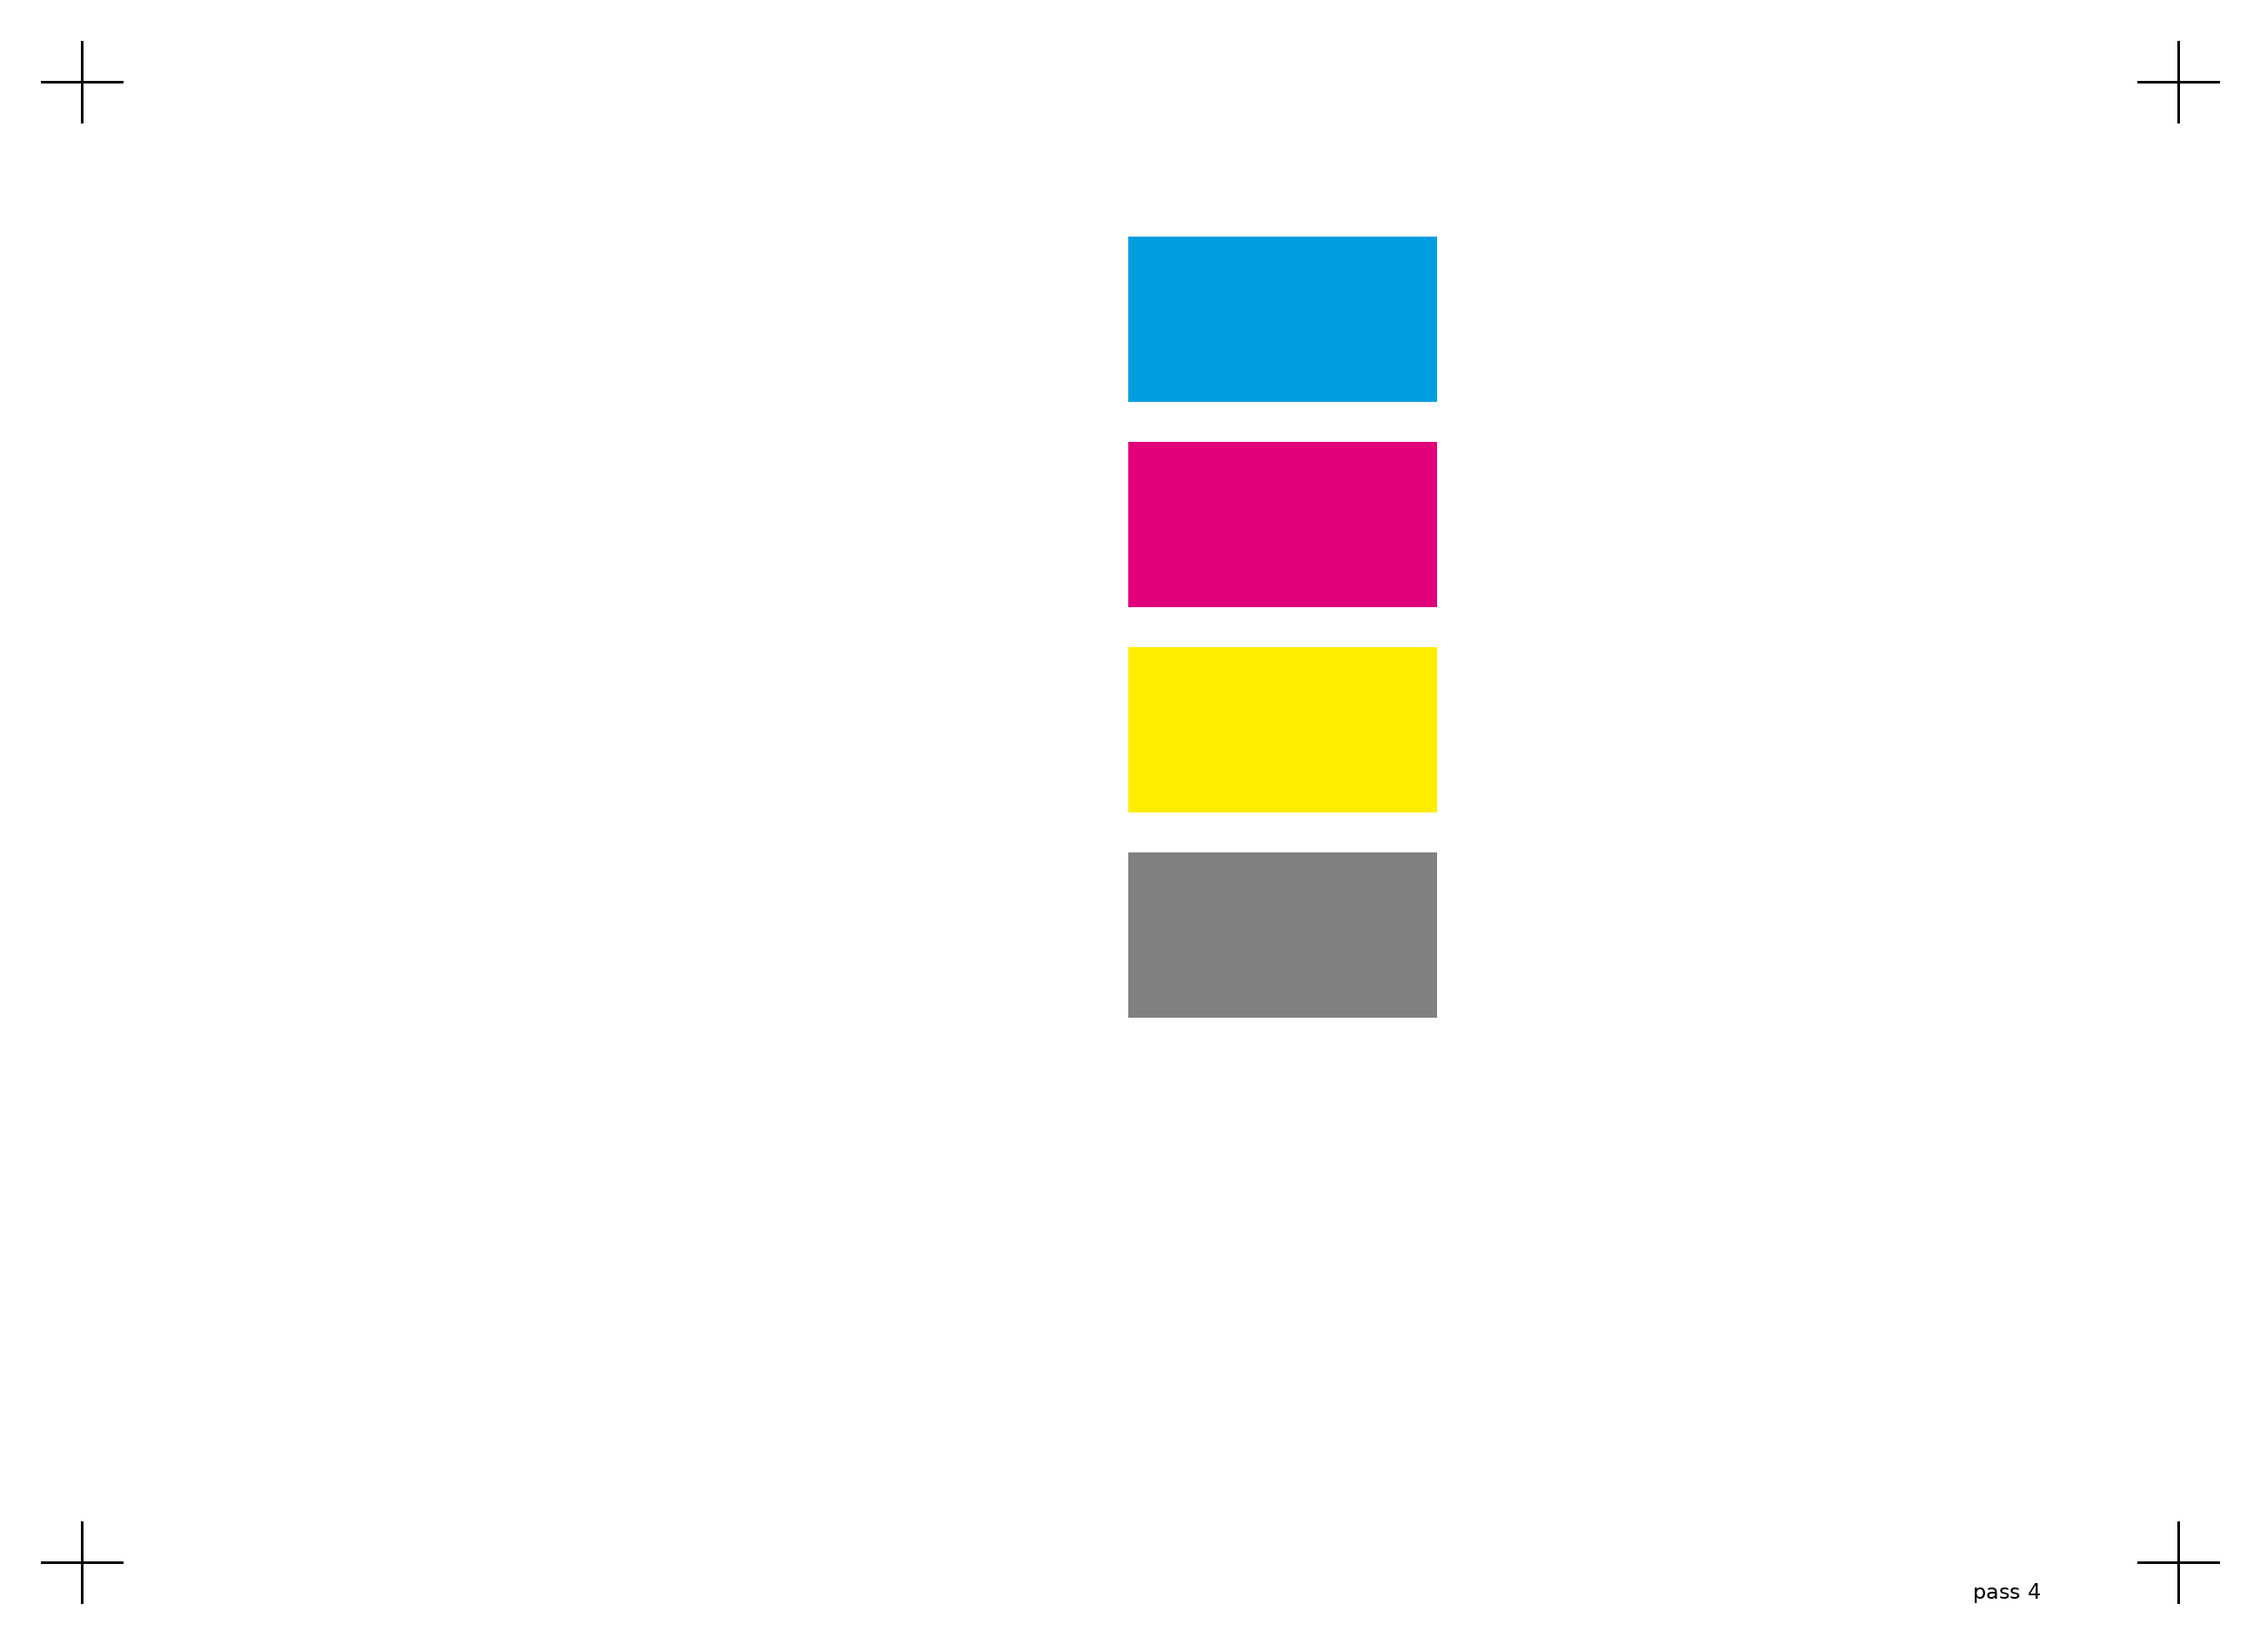
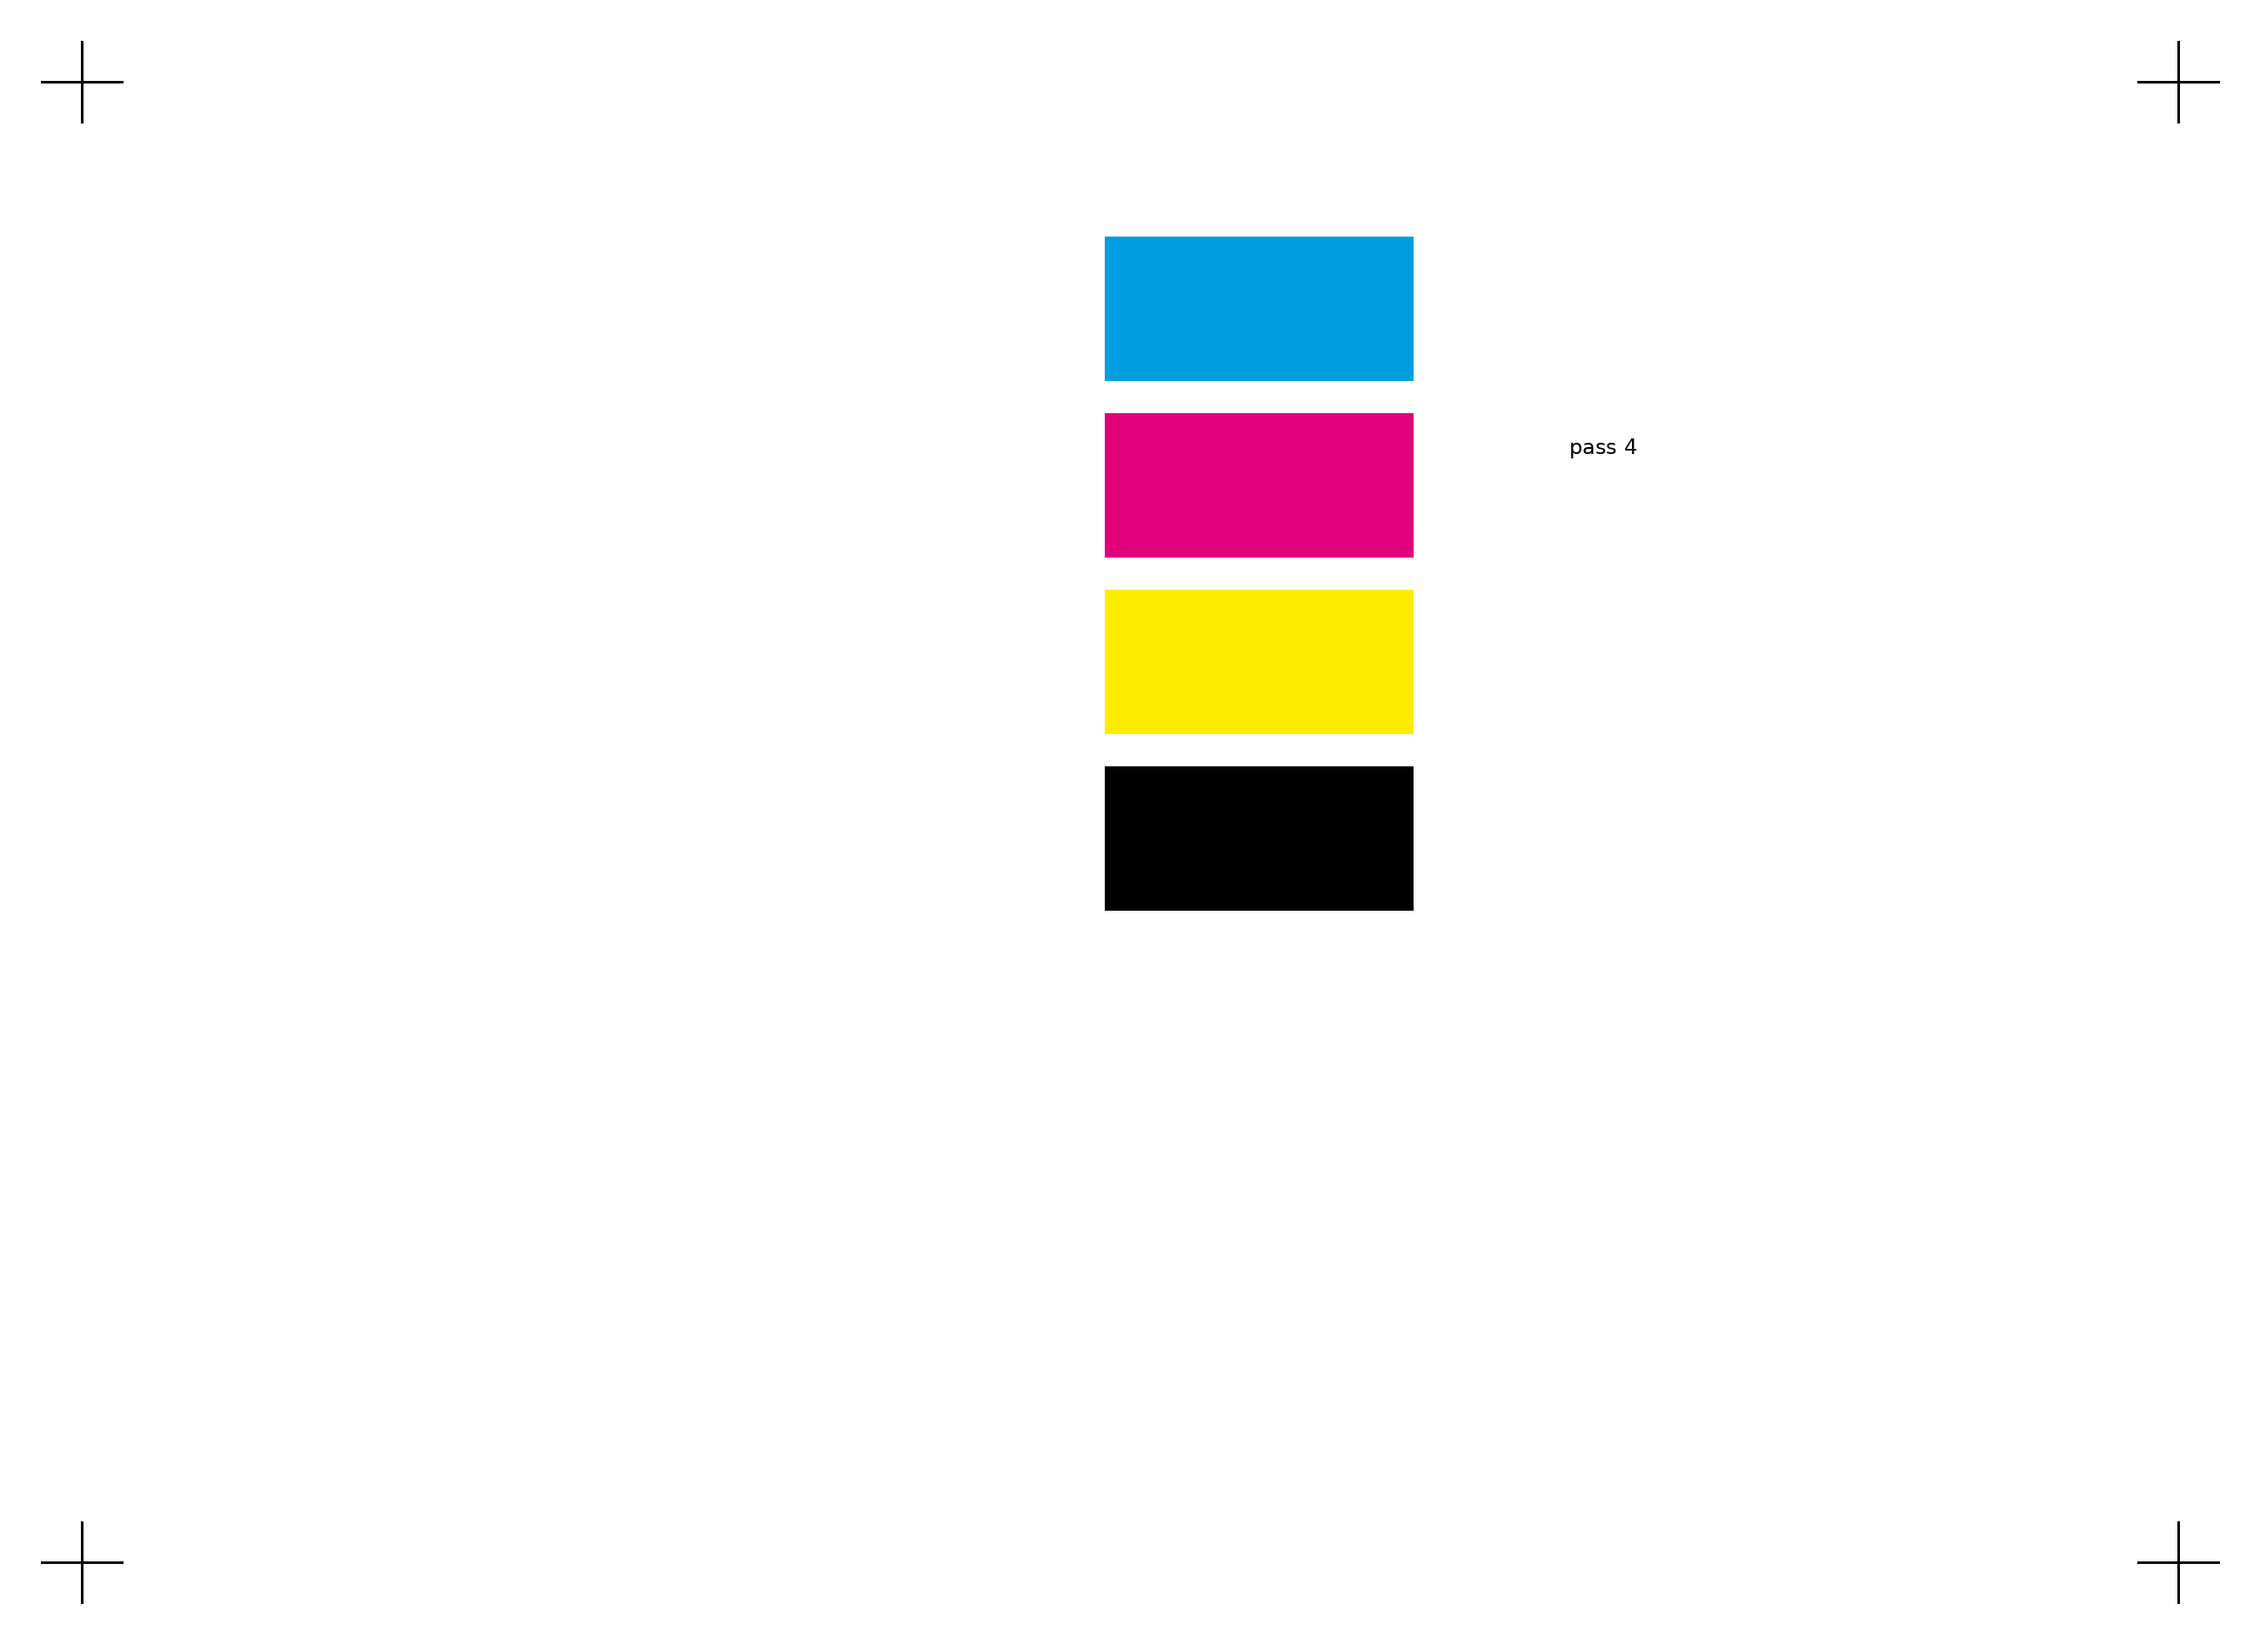
Rework the glaze test around what the black tile taught
Three changes, each from a measurement rather than a preference.

Pure black replaces mid grey in the depth series. One pass read as dark grey on
glass, so whether a second or third reaches a real black is a question worth a
row — and it has to be exactly zero, since near-black is a weaker ink mix here.

The fourth pair becomes M over C, so all four pairs are now CMY combinations.
Glazing is built from those three; grey was taking a slot that a real pair
could use.

Registration becomes a vernier instead of four crosses stacked on each other.
Crosses printed four times only get thicker — they cannot say by how much
anything moved. Pass 1 lays the upper bars, pass 2 the lower ones at offsets
from -0.3 to +0.3mm, and whichever pair lines up is the drift. The bars are
0.3mm wide because 0.1mm hairlines thicken under overspray, which is the very
error being measured.

Changed region(s): [[0.4677, 0.1249, 0.6547, 0.6243]]

diff --git a/tools/make_test_target.py b/tools/make_test_target.py
@@ -329,7 +329,10 @@ GLAZE_INKS = [
     ("C", (0, 158, 224)),
     ("M", (226, 0, 122)),
     ("Y", (255, 237, 0)),
-    ("50K", (128, 128, 128)),
+    # Pure black, not mid grey: one pass read as dark grey on glass, so whether
+    # a second or third gets to a real black is worth a row of its own. It has to
+    # be exactly zero — near-black is a different, weaker ink mix on this printer.
+    ("K", (0, 0, 0)),
 ]
 
 #: Pairs laid one over the other. Whether these overlaps land where the model
@@ -338,7 +341,7 @@ GLAZE_PAIRS = [
     (("C", (0, 158, 224)), ("M", (226, 0, 122))),
     (("C", (0, 158, 224)), ("Y", (255, 237, 0))),
     (("M", (226, 0, 122)), ("Y", (255, 237, 0))),
-    (("M", (226, 0, 122)), ("50K", (128, 128, 128))),
+    (("M", (226, 0, 122)), ("C", (0, 158, 224))),
 ]
 
 
@@ -376,7 +379,7 @@ def glaze_test(width_mm: float = 110.0, height_mm: float = 80.0) -> list[Raster]
         font=small,
         fill=(*INK, 255),
     )
-    block_w, block_h, gap = mm(15.0), mm(8.0), mm(2.0)
+    block_w, block_h, gap = mm(15.0), mm(7.0), mm(1.6)
     top = mm(11.5)
     for depth in range(1, 5):
         first.text(
@@ -412,17 +415,35 @@ def glaze_test(width_mm: float = 110.0, height_mm: float = 80.0) -> list[Raster]
         )
         first.text((x, y + mm(10.4)), f"{name_a} then {name_b}", font=tiny, fill=(*INK, 255))
 
+    # -- 3. registration, measured rather than eyeballed ---------------------
+    #
+    # Four crosses printed on top of each other only get thicker; they cannot
+    # say by how much anything moved. This is a vernier: pass 1 lays the upper
+    # bars, pass 2 the lower ones at known offsets, and whichever pair lines up
+    # is the drift. Bars are 0.3mm because 0.1mm hairlines thicken under
+    # overspray, which is exactly the error being measured.
+    y += mm(13.0)
+    first.text((left, y), "3  registration — which pair lines up? that is the drift", font=small, fill=(*INK, 255))
+    y += mm(2.6)
+    offsets = [-0.3, -0.2, -0.1, 0.0, 0.1, 0.2, 0.3]
+    span = width // len(offsets)
+    for index, offset in enumerate(offsets):
+        x = left + index * span + span // 3
+        draws[0].rectangle([x, y, x + mm(0.3), y + mm(3.0)], fill=(*INK, 255))
+        shifted = x + mm(offset) if offset >= 0 else x - mm(-offset)
+        draws[1].rectangle([shifted, y + mm(3.4), shifted + mm(0.3), y + mm(6.4)], fill=(*INK, 255))
+        first.text((x - mm(1.4), y + mm(6.8)), f"{offset:+.1f}", font=tiny, fill=(*INK, 255))
+
     for draw in draws:
         corner_marks(draw, canvas_w, canvas_h)
 
-    # Staggered down the corner, so four prints on one piece of glass read as a
-    # tally of what actually went down rather than one blur.
+    # Staggered, so four prints on one piece of glass read as a tally of what
+    # actually went down rather than one blur. Beside the depth grid rather than
+    # in the corner, where it was landing on the vernier's last label.
+    tally_x = left + 4 * (block_w + gap) + mm(6.0)
     for index in range(1, 5):
         draws[index - 1].text(
-            (canvas_w - left - mm(10.0), canvas_h - mm(12.0) + mm(index * 2.2)),
-            f"pass {index}",
-            font=tiny,
-            fill=(*INK, 255),
+            (tally_x, top + mm(index * 2.4)), f"pass {index}", font=tiny, fill=(*INK, 255)
         )
 
     return [Raster(np.array(page, dtype=np.uint8), dpi=(DPI, DPI)) for page in pages]
